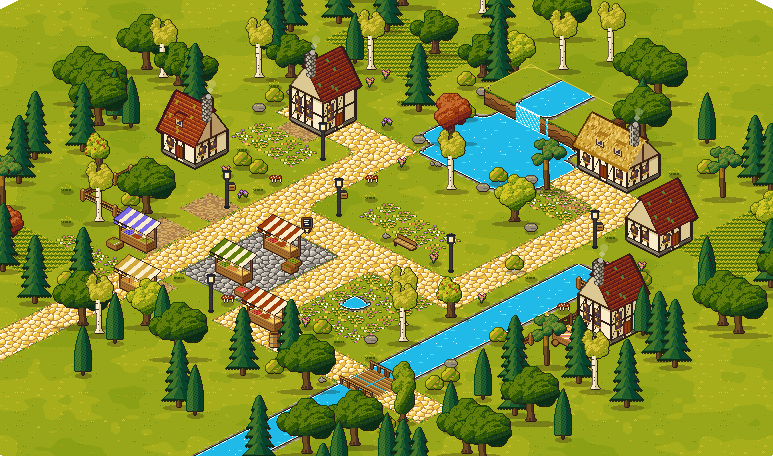
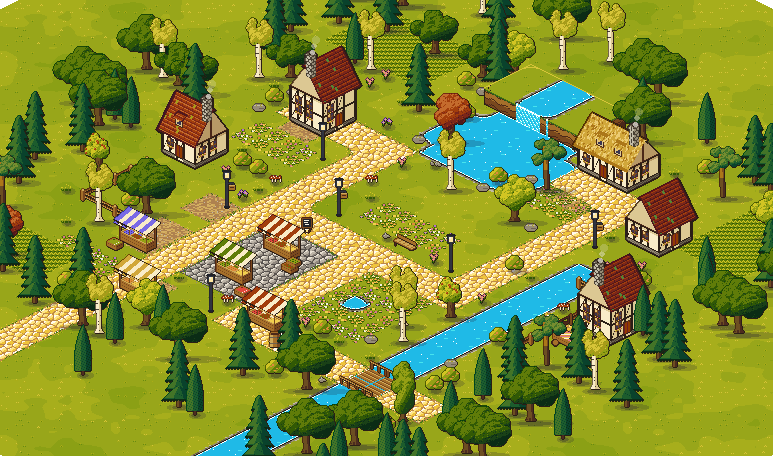
Ground shadows: the pool (tree round pick), pixel-exact in Python and JS
A wide ellipse falling bottom-right with a darker core, in palette colour shade, drawn as pixel rows
(iso.SHADOW, groundShadow in js/render.js, tileset.json shadow). Rocks have none in either renderer.
JS now places plain props with floor like Python (was round: 1 px off for odd widths).
Tree crowns stay as they are (round pick: today's).

parity_ref.py writes out/shadow-ref.png; the CLAUDE.md check compares it (0). Ground parity 0 x 4.
For the CuriousCat sync: tileset.json gains shadow; drawProp uses it when present.

diff --git a/js/render.js b/js/render.js
@@ -147,14 +147,44 @@ export function drawProp(ctx, ts, name, x, y) {
     ctx.drawImage(ts.propsImg, p.x, p.y, p.w, p.h, Math.round(x - p.ax), Math.round(y - p.ay), p.w, p.h);
     return true;
   }
-  if (p.shadow) {
+  if (p.shadow && ts.json.shadow) groundShadow(ctx, ts.json.shadow, x, y, p.w);
+  else if (p.shadow) {
     ctx.fillStyle = "rgba(38, 48, 63, 0.28)";
     ctx.beginPath();
     ctx.ellipse(Math.round(x + 2), Math.round(y - 1), p.w * 0.46, 2.6, 0, 0, Math.PI * 2);
     ctx.fill();
   }
-  ctx.drawImage(ts.propsImg, p.x, p.y, p.w, p.h, Math.round(x - p.w / 2), Math.round(y - p.h), p.w, p.h);
+  ctx.drawImage(ts.propsImg, p.x, p.y, p.w, p.h, Math.floor(x - p.w / 2), Math.floor(y - p.h), p.w, p.h);
   return true;
+}
+
+// Pixel rows of an ellipse, {y: [x0, x1)}: pixel centres inside, nothing antialiased. Same as art/iso.py.
+function ellipseRows(cx, cy, rx, ry) {
+  const rows = new Map();
+  for (let y = Math.floor(cy - ry); y <= Math.ceil(cy + ry); y++) {
+    const t = 1 - ((y + 0.5 - cy) / ry) ** 2;
+    if (t <= 0) continue;
+    const half = rx * Math.sqrt(t), x0 = Math.ceil(cx - half - 0.5), x1 = Math.floor(cx + half - 0.5) + 1;
+    if (x1 > x0) rows.set(y, [x0, x1]);
+  }
+  return rows;
+}
+
+// The ground shadow under a tree or small thing (tileset.json `shadow`, iso.SHADOW): an outer ellipse falling
+// bottom-right with a darker core, drawn as pixel rows so it matches the Python renderer.
+function groundShadow(ctx, sh, x, y, w) {
+  const [r, g, b] = [1, 3, 5].map((i) => parseInt(sh.color.slice(i, i + 2), 16));
+  const part = (k) => ellipseRows(x + w * sh[k][0], y - 0.5, w * sh[k][1], sh[k][2]);
+  const outer = part("outer"), core = part("core");
+  for (const [yy, [x0, x1]] of outer) {
+    const c = core.get(yy);
+    ctx.fillStyle = `rgba(${r}, ${g}, ${b}, ${sh.alpha[0] / 255})`;
+    if (!c) { ctx.fillRect(x0, yy, x1 - x0, 1); continue; }
+    if (c[0] > x0) ctx.fillRect(x0, yy, c[0] - x0, 1);
+    if (x1 > c[1]) ctx.fillRect(c[1], yy, x1 - c[1], 1);
+  }
+  ctx.fillStyle = `rgba(${r}, ${g}, ${b}, ${sh.alpha[1] / 255})`;
+  for (const [yy, [x0, x1]] of core) ctx.fillRect(x0, yy, x1 - x0, 1);
 }
 
 export function drawProps(ctx, m, ts) {

diff --git a/art/iso.py b/art/iso.py
@@ -521,9 +521,39 @@ def walls(lay, fill, m, L, X0, Y0, frame):
                             lp[x, y + k] = RGB["out"]
 
 
+# Ground shadow under trees, bushes and small things (picked 2026-10-11, tree round: "pool"): a wide ellipse falling
+# to the bottom-right, away from the light, with a darker core. Colour `shade`, alpha per part; same in js/render.js.
+SHADOW = {"outer": (0.14, 0.48, 3.8), "core": (0.06, 0.26, 2.2), "alpha": (55, 115)}     # (x shift, rx) x sprite width, ry
+
+
+def ellipse_rows(cx, cy, rx, ry):
+    """Pixel rows of an ellipse, {y: (x0, x1)} with x1 exclusive: pixel centres inside, nothing antialiased."""
+    rows = {}
+    for y in range(math.floor(cy - ry), math.ceil(cy + ry) + 1):
+        t = 1 - ((y + 0.5 - cy) / ry) ** 2
+        if t <= 0:
+            continue
+        half = rx * math.sqrt(t)
+        x0, x1 = math.ceil(cx - half - 0.5), math.floor(cx + half - 0.5) + 1
+        if x1 > x0:
+            rows[y] = (x0, x1)
+    return rows
+
+
+def shadow_pixels(X, Y, w):
+    """{(x, y): alpha} of a sprite's ground shadow, feet at (X, Y), sprite width w."""
+    out = {}
+    for part, a in (("outer", SHADOW["alpha"][0]), ("core", SHADOW["alpha"][1])):
+        dx, rx, ry = SHADOW[part]
+        for y, (x0, x1) in ellipse_rows(X + w * dx, Y - 0.5, w * rx, ry).items():
+            for x in range(x0, x1):
+                out[x, y] = a
+    return out
+
+
 def place(canvas, spr, X, Y):
-    """A sprite with its feet at screen (X, Y), with a soft shadow. A building (a sprite with an `anchor`) is placed
-    so its anchor (its front cell's centre) lands on (X, Y), without a shadow."""
+    """A sprite with its feet at screen (X, Y), with its ground shadow (unless spr.shadow is False). A building (a
+    sprite with an `anchor`) is placed so its anchor (its front cell's centre) lands on (X, Y), without a shadow."""
     if getattr(spr, "anchor", None):
         left, top = int(round(X - spr.anchor[0])), int(round(Y - spr.anchor[1]))
         canvas.alpha_composite(spr.im, (left, top))
@@ -537,11 +567,14 @@ def place(canvas, spr, X, Y):
                 d.ellipse((cx - r, cy - r, cx + r, cy + r), fill=(236, 232, 222, int(255 * (0.7 - rise / 26))))
             canvas.alpha_composite(sm)
         return
-    sh = Image.new("RGBA", canvas.size, (0, 0, 0, 0))
-    ImageDraw.Draw(sh).ellipse((X - spr.w * 0.42, Y - 3, X + spr.w * 0.46, Y + 2), fill=(30, 22, 16, 70))
-    canvas.alpha_composite(sh)
-    canvas.alpha_composite(spr.im, (int(X - spr.w / 2), int(Y - spr.h)))
-
+    if getattr(spr, "shadow", True):
+        sh = Image.new("RGBA", canvas.size, (0, 0, 0, 0))
+        px, col = sh.load(), RGB["shade"][:3]
+        for (x, y), a in shadow_pixels(X, Y, spr.w).items():
+            if 0 <= x < sh.width and 0 <= y < sh.height:
+                px[x, y] = col + (a,)
+        canvas.alpha_composite(sh)
+    canvas.alpha_composite(spr.im, (math.floor(X - spr.w / 2), math.floor(Y - spr.h)))
 
 if __name__ == "__main__":
     import palettes

diff --git a/art/parity_ref.py b/art/parity_ref.py
@@ -1,7 +1,8 @@
 """Small test maps drawn by the Python renderer, for checking that the browser draws the same pixels.
 Writes out/iso-ref.png and out/iso-ref.json (a map on level 0), and out/iso-ref-dig.png and out/iso-ref-dig.json
 (a map whose ground is level 1, with a pit dug into it, drawn with a margin), plus each map top-down
-(out/top-iso-ref*.png, by art/preview.py). The browser check is in CLAUDE.md.
+(out/top-iso-ref*.png, by art/preview.py), and out/shadow-ref.png: a few props with their ground shadows.
+The browser check is in CLAUDE.md.
 
     python art/parity_ref.py
 """
@@ -50,3 +51,16 @@ d.fill("height", 2, 3, 6, 7, 0); d.fill("height", 1, 8, 4, 11, 2)       # rows f
 d.fill("terrain", 3, 4, 5, 6, "water"); d.fill("terrain", 8, 0, 9, 12, "path"); d.fill("terrain", 5, 8, 8, 11, "cobbles")
 d.feature[2][4] = "stairs"                                            # at the foot of the pit's back wall
 write(d, "iso-ref-dig", margin=2)
+
+# props with their ground shadows (trees at odd and even spots, a rock without a shadow)
+from PIL import Image
+from iso_nature import nature
+
+N = nature()
+spots = [("tree-1", 40, 90), ("oak-3", 121, 95), ("pine-3", 200, 100), ("rock-1", 260, 100)]
+cv = Image.new("RGBA", (300, 120), (0, 0, 0, 0))
+for name, x, y in spots:
+    iso.place(cv, N[name], x, y)
+cv.save(ROOT / "out" / "shadow-ref.png")
+json.dump(spots, open(ROOT / "out" / "shadow-ref.json", "w"))
+print("wrote out/shadow-ref.png and out/shadow-ref.json")

diff --git a/art/iso_tiles.py b/art/iso_tiles.py
@@ -48,6 +48,8 @@ def build(palette):
     sh.newline()
     meta["flats"] = {name: sh.add(im) for name, im in flats().items()}
     meta["colors"] = {k: PAL[k] for k in WALL_COLOURS}
+    from iso import SHADOW
+    meta["shadow"] = {**SHADOW, "color": PAL["shade"]}                   # ground shadows under props (js/render.js)
     out = ROOT / "tiles" / "iso"
     out.mkdir(parents=True, exist_ok=True)
     sh.image().save(out / "tileset.png")
@@ -71,7 +73,7 @@ def build_iso_props():
     from iso_nature import nature
     items = {name: (spr, shadow, {}) for name, (spr, shadow) in catalog().items() if not name.startswith("house-")}
     for name, spr in nature().items():
-        items[name] = (spr, not name.startswith("rock"), {})
+        items[name] = (spr, getattr(spr, "shadow", True), {})
     for name, kw in HOUSES.items():
         spr, (ax, ay), foot = house(**kw)
         items[name] = (spr, False, {"ax": ax, "ay": ay, "foot": list(foot), **({"smoke": list(spr.smoke)} if spr.smoke else {})})

diff --git a/art/render_map.py b/art/render_map.py
@@ -33,6 +33,8 @@ def props():
     from props import catalog
     iso_props.use_look("storybook")
     out = {name: spr for name, (spr, _) in catalog().items() if not name.startswith("house-")}
+    for name, (spr, shadow) in catalog().items():
+        spr.shadow = shadow
     out.update(nature())
     out.update({name: iso_props.house(**kw)[0] for name, kw in iso_props.HOUSES.items()})
     out.update({name: make() for name, make in iso_market.MARKET.items()})

diff --git a/art/reference_town.py b/art/reference_town.py
@@ -141,6 +141,8 @@ def sprites():
     import iso_props
     from props import catalog
     out = {name: spr for name, (spr, _) in catalog().items() if not name.startswith("house-")}
+    for name, (spr, shadow) in catalog().items():
+        spr.shadow = shadow
     from iso_nature import nature
     out.update(nature())
     out.update({name: iso_props.house(**kw)[0] for name, kw in iso_props.HOUSES.items()})

diff --git a/art/palettes.py b/art/palettes.py
@@ -148,7 +148,7 @@ def close_greens(pal):
 
 
 for _name in PALETTES:
-    PALETTES[_name] = close_greens(PALETTES[_name])
+    PALETTES[_name] = {**close_greens(PALETTES[_name]), "shade": "#221e34"}      # ground shadows (iso.SHADOW)
 
 
 def use(name):

diff --git a/art/iso_nature.py b/art/iso_nature.py
@@ -177,5 +177,6 @@ def nature():
         out[f"bush-{k + 1}"] = flower_bush(f"b{k}")
     for k in range(2):
         out[f"rock-{k + 1}"] = mossy_rock(f"r{k}")
+        out[f"rock-{k + 1}"].shadow = False
     out.update(details())
     return out

diff --git a/CLAUDE.md b/CLAUDE.md
@@ -106,6 +106,8 @@ existing values. If the format must change, bump `tinyTownVersion` in `js/format
 * Houses: the `storybook` look (`LOOK` in `art/iso_tiles.py`).
 * Outlines: selective (`OUTLINE` in `art/sprites.py`): `out` on the shadow sides, a dark local shade on the lit
   sides; 2 px on buildings. Clear outlines matter most: they keep objects apart from each other.
+* Ground shadows: the "pool" (`iso.SHADOW`, `groundShadow` in `js/render.js`, colour `shade`): a wide ellipse
+  falling bottom-right with a darker core, drawn as pixel rows in both renderers. Rocks have none.
 * Grass: soft swells in three close greens (`g1l g1 g1d`) with small tufts, lit on the swells; no per-pixel speckle.
 * Trees: lots of variety, no two alike; leaves use hash speckle, not dither stripes.
 * Reference: the market village (`docs/market-village.png`) was rebuilt from a storybook-style picture of a market
@@ -139,6 +141,16 @@ existing values. If the format must change, bump `tinyTownVersion` in `js/format
     const A = c.getContext("2d").getImageData(0, 0, c.width, c.height).data, B = c2.getContext("2d").getImageData(0, 0, c.width, c.height).data;
     let big = 0; for (let i = 0; i < A.length; i += 4) if (Math.max(...[0, 1, 2, 3].map((k) => Math.abs(A[i + k] - B[i + k]))) > 3) big++;
     res["top-" + name] = big;
+  }
+  {                                                                     // props and their ground shadows
+    const spots = await (await fetch("/out/shadow-ref.json", { cache: "reload" })).json();
+    const c = document.createElement("canvas"); c.width = 300; c.height = 120; const g = c.getContext("2d");
+    for (const [n, x, y] of spots) R.drawProp(g, ts, n, x, y);
+    const im = await new Promise((ok) => { const i = new Image(); i.onload = () => ok(i); i.src = "/out/shadow-ref.png?" + Date.now(); });
+    const c2 = document.createElement("canvas"); c2.width = 300; c2.height = 120; c2.getContext("2d").drawImage(im, 0, 0);
+    const A = g.getImageData(0, 0, 300, 120).data, B = c2.getContext("2d").getImageData(0, 0, 300, 120).data;
+    let big = 0; for (let i = 0; i < A.length; i += 4) if (Math.max(...[0, 1, 2, 3].map((k) => Math.abs(A[i + k] - B[i + k]))) > 3) big++;
+    res.shadows = big;
   }
   res  // every count must be 0
   ```
